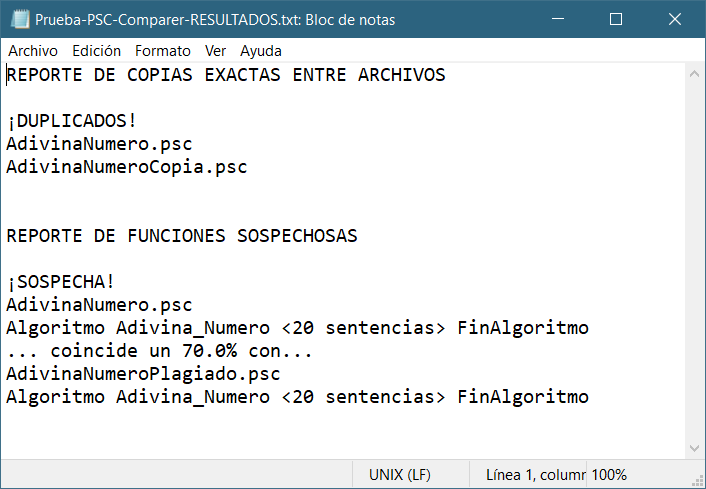
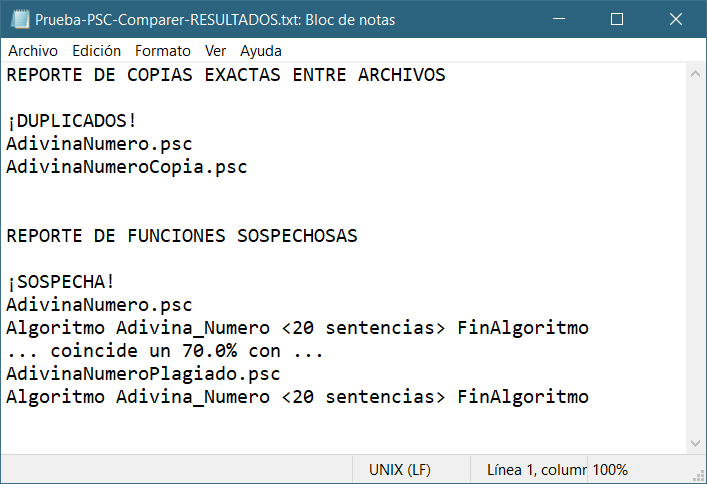
Punto pegado a porcentaje solucionado

diff --git a/src/pscComparer/model/PSCComparer.java b/src/pscComparer/model/PSCComparer.java
@@ -78,7 +78,7 @@ public class PSCComparer {
                     this.resultados.add("¡SOSPECHA!\n");
                     this.resultados.add(archivoPSC1.getNombre() + "\n");
                     this.resultados.add(funciones1.get(i) + "\n");
-                    this.resultados.add("... coincide un " + porc + "% con...\n");
+                    this.resultados.add("... coincide un " + porc + "% con ...\n");
                     this.resultados.add(archivoPSC2.getNombre() + "\n");
                     this.resultados.add(funciones2.get(j) + "\n\n");
                 }

diff --git a/README.md b/README.md
@@ -38,7 +38,7 @@ Si hay éxito en la carga, el programa mostrará cuántos archivos serán analiz
 1. Se carga cada archivo `.psc` y se guardan sus líneas normalizadas (sin espacios ni tabulados al principio y al final). No se procesan líneas en blanco.
 2. Se genera un conjunto de funciones por cada archivo, según la sintaxis del pseudocódigo de PSeInt.
 3. Se hace una primera pasada en búsqueda de archivos exactamente iguales en cuanto a sus líneas. Las coincidencias exactas son detectadas y reportadas.
-4. Se hace una segunda pasada en búsqueda de funciones sospechosas de plagio. El programa cuenta la cantidad de líneas de la `función1` en el `archivo1` que también están en la `función2` del `archivo2` y retorna un valor relativo porcentual respecto de la cantidad total de líneas de `función1`. En caso de superar el valor establecido por el usuario en el slider, lanza una sospecha al reporte de funciones sospechosas. Se realiza la evaluación de todas las funciones de un archivo por sobre otro, sin importar el orden en el que fueron definidas.
+4. Se hace una segunda pasada en búsqueda de funciones sospechosas de plagio. El programa cuenta la cantidad de líneas de la `función1` en el `archivo1` que también están en la `función2` del `archivo2` y retorna un valor relativo porcentual respecto de la cantidad total de líneas de `función1`. En caso de superar el valor establecido por el usuario en el slider, lanza una sospecha al reporte de funciones sospechosas. Se realiza la evaluación de todas las funciones de un archivo por sobre otro, sin importar el orden en el que fueron definidas. La línea de cabecera y la de fin de la función son excluidas del procesamiento para una mayor precisión. 
    
 El programa excluye a los archivos duplicados de la evaluación de la semejanza de funciones para evitar redundancias (todas las funciones coincidirían al 100%). Solo deja al primero de ellos para evaluar la semejanza de funciones con otros archivos no idénticos en busca de sospechas de plagio, el cual se haría extensivo a sus copias.
 
